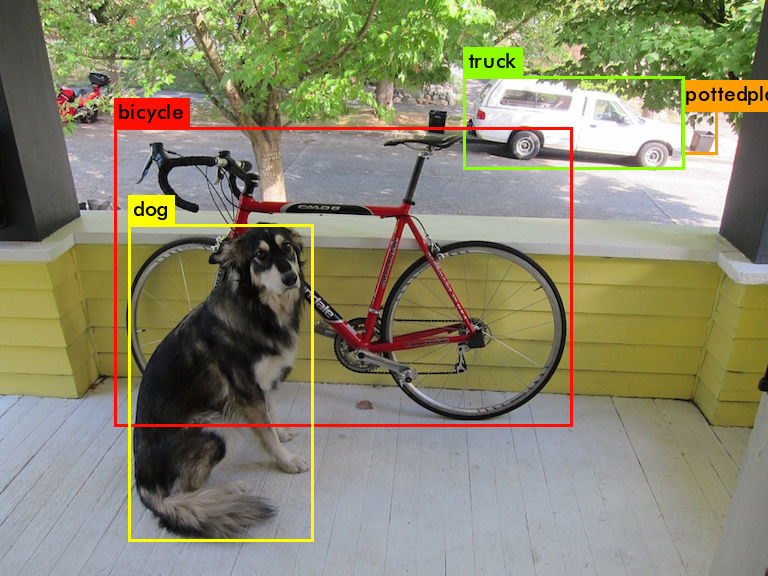
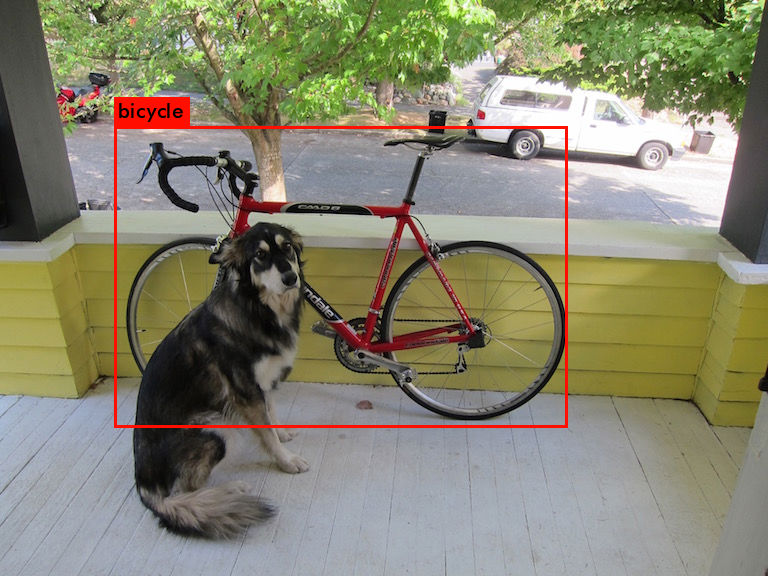
在后处理阶段，将检测任务转换为定位任务

Changed region(s): [[0.1562, 0.0625, 1.0, 0.9375], [0.1875, 0.9062, 0.4062, 0.9688], [0.1562, 0.1562, 0.25, 0.2188]]

diff --git a/src/network.c b/src/network.c
@@ -969,6 +969,39 @@ get_network_boxes(network *net, int w, int h, float thresh, float hier, int *map
     return dets;
 }
 
+// 将检测结果转换为定位结果
+detection *get_localization_box(detection *dets, int total, float thresh)
+{
+    detection *res = NULL;
+
+    float max_area = 0.0f;
+    int i;
+    for (i = 0; i < total; i++)
+    {
+        // 首先要确保被保留下来的定位结果的prob>thresh，这一步或许是非必须的，因为获取dets已经使用这个条件进行了一遍过滤
+        float *prob = dets[i].prob;
+        float max_prob = 0.0f;
+        int j;
+        for (j = 0; j < dets[i].classes; j++)
+        {
+            max_prob = dets[i].prob[j] > max_prob ? dets[i].prob[j] : max_prob;
+        }
+        if (max_prob < thresh)
+            continue;
+
+        // 概率符合条件之后，再根据面积进行过滤，找到面积最大的那个检测结果
+        box cur_box = dets[i].bbox;
+        float cur_area = cur_box.w * cur_box.h;
+        if (cur_area > max_area)
+        {
+            res = &dets[i];
+            max_area = cur_area;
+        }
+    }
+
+    return res;
+}
+
 void free_detections(detection *dets, int n)
 {
     int i;

diff --git a/include/darknet.h b/include/darknet.h
@@ -40,7 +40,6 @@ typedef enum
 } UNUSED_ENUM_TYPE;
 
 #ifdef GPU
-
 #include <cuda_runtime.h>
 #include <curand.h>
 #include <cublas_v2.h>
@@ -988,23 +987,6 @@ typedef struct box_label
     float left, right, top, bottom;
 } box_label;
 
-// list.h
-//typedef struct node {
-//    void *val;
-//    struct node *next;
-//    struct node *prev;
-//} node;
-
-// list.h
-//typedef struct list {
-//    int size;
-//    node *front;
-//    node *back;
-//} list;
-
-// -----------------------------------------------------
-
-
 // parser.c
 LIB_API network *load_network(char *cfg, char *weights, int clear);
 
@@ -1031,6 +1013,9 @@ LIB_API float *network_predict_ptr(network *net, float *input);
 
 LIB_API detection *
 get_network_boxes(network *net, int w, int h, float thresh, float hier, int *map, int relative, int *num, int letter);
+
+// 将检测结果转换为定位结果
+LIB_API detection *get_localization_box(detection *dets, int total, float thresh);
 
 LIB_API det_num_pair *
 network_predict_batch(network *net, image im, int batch_size, int w, int h, float thresh, float hier, int *map,

diff --git a/src/detector.c b/src/detector.c
@@ -1809,7 +1809,12 @@ void test_detector(char *datacfg, char *cfgfile, char *weightfile, char *filenam
             else diounms_sort(dets, nboxes, l.classes, nms, l.nms_kind, l.beta_nms);
         }
 
-        draw_detections_v3(im, dets, nboxes, thresh, names, alphabet, l.classes, ext_output);
+        // dets里保存的是经过后处理之后所有检测结果，定位任务只需要面积最大的那个box，需要对dets再次过滤
+        detection* det = get_localization_box(dets, nboxes, thresh);
+        draw_detections_v3(im, det, 1, thresh, names, alphabet, l.classes, ext_output);
+
+        // 若要可视化所有检测结果，注释上两行，使用下面这行
+        // draw_detections_v3(im, dets, nboxes, thresh, names, alphabet, l.classes, ext_output);
         save_image(im, "predictions");
         if (!dont_show)
         {
